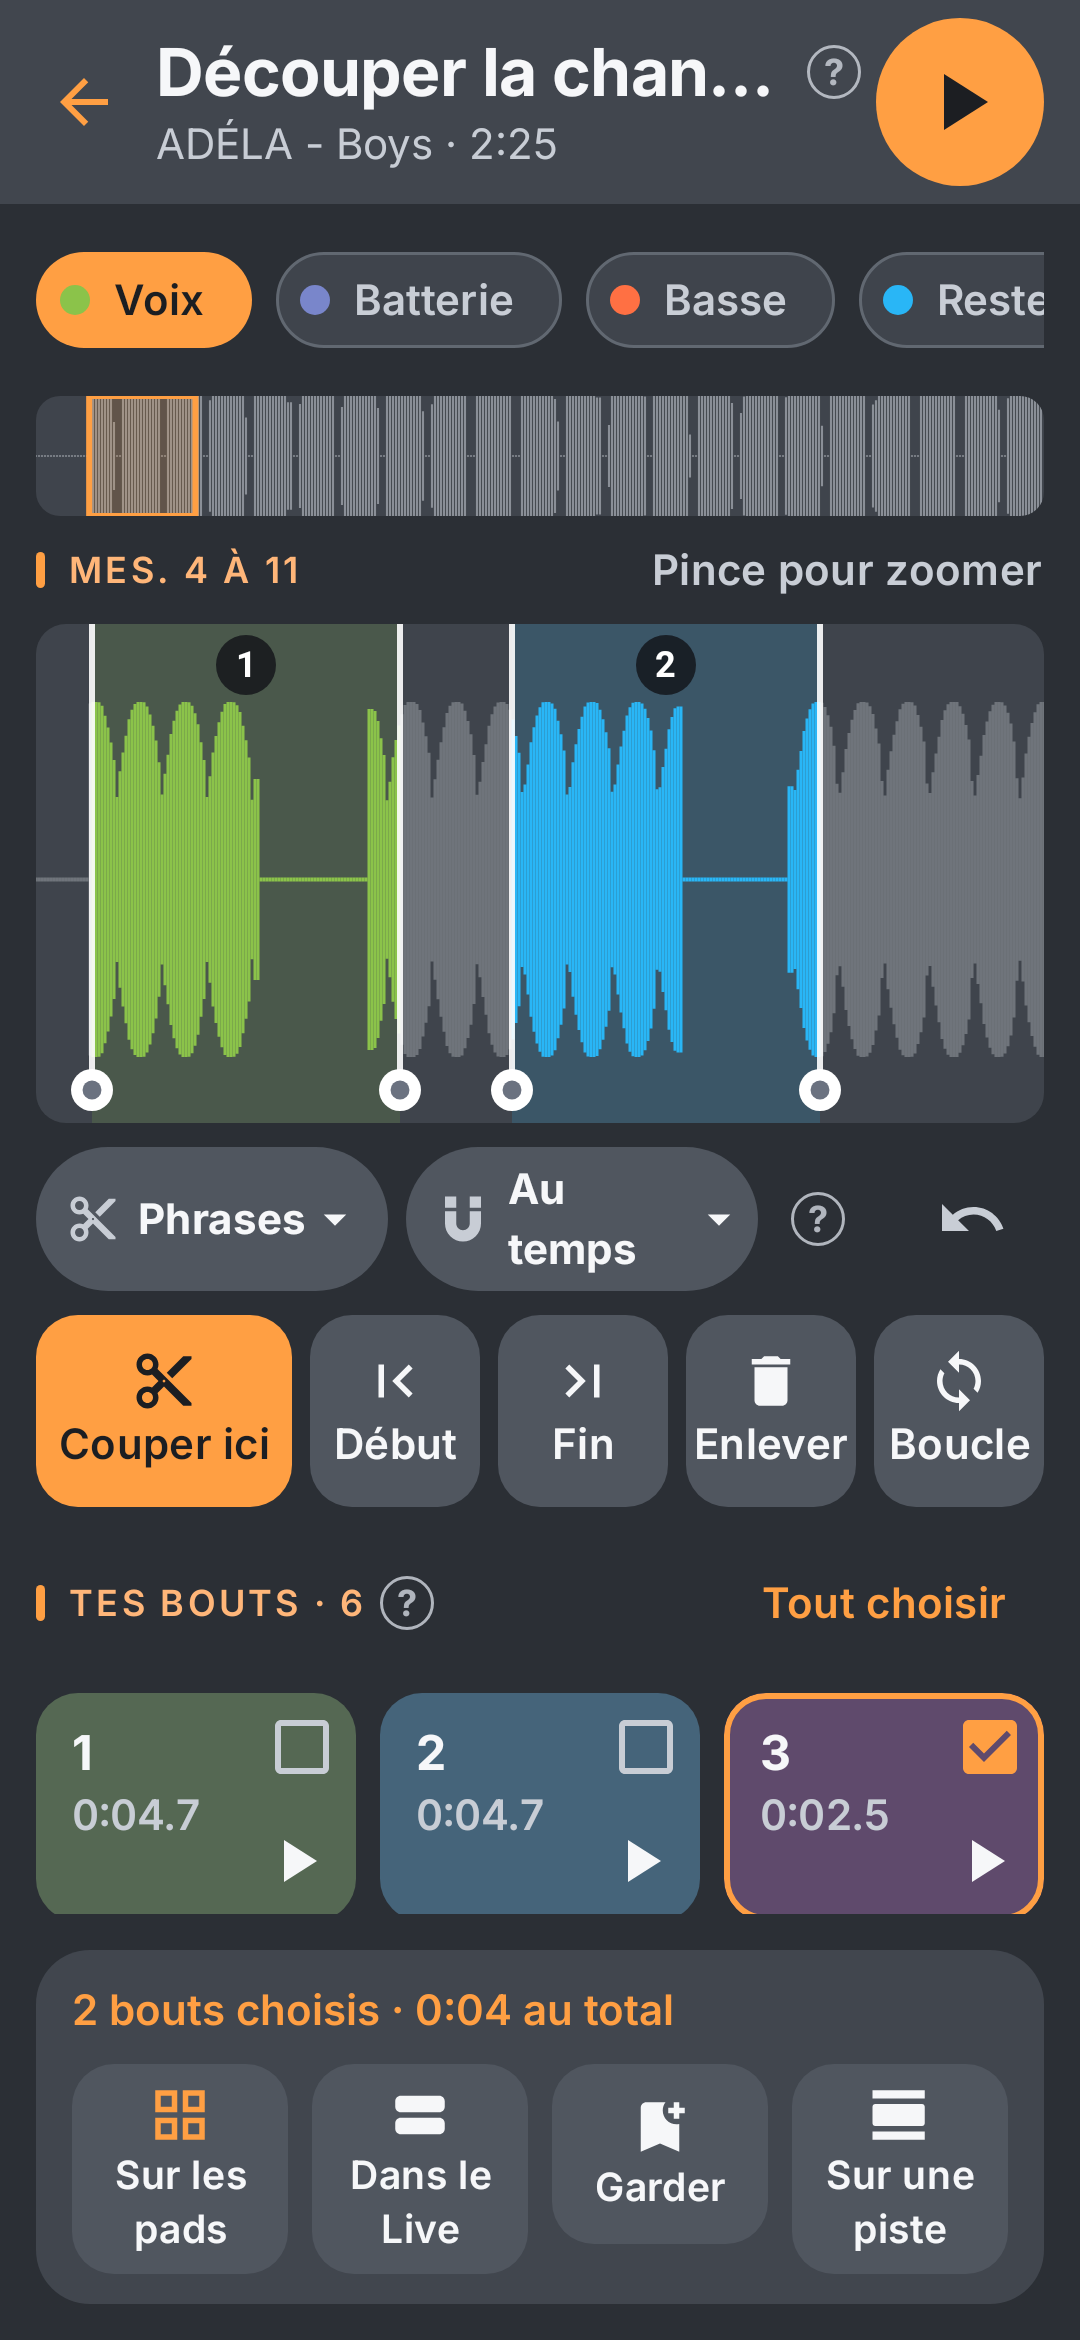
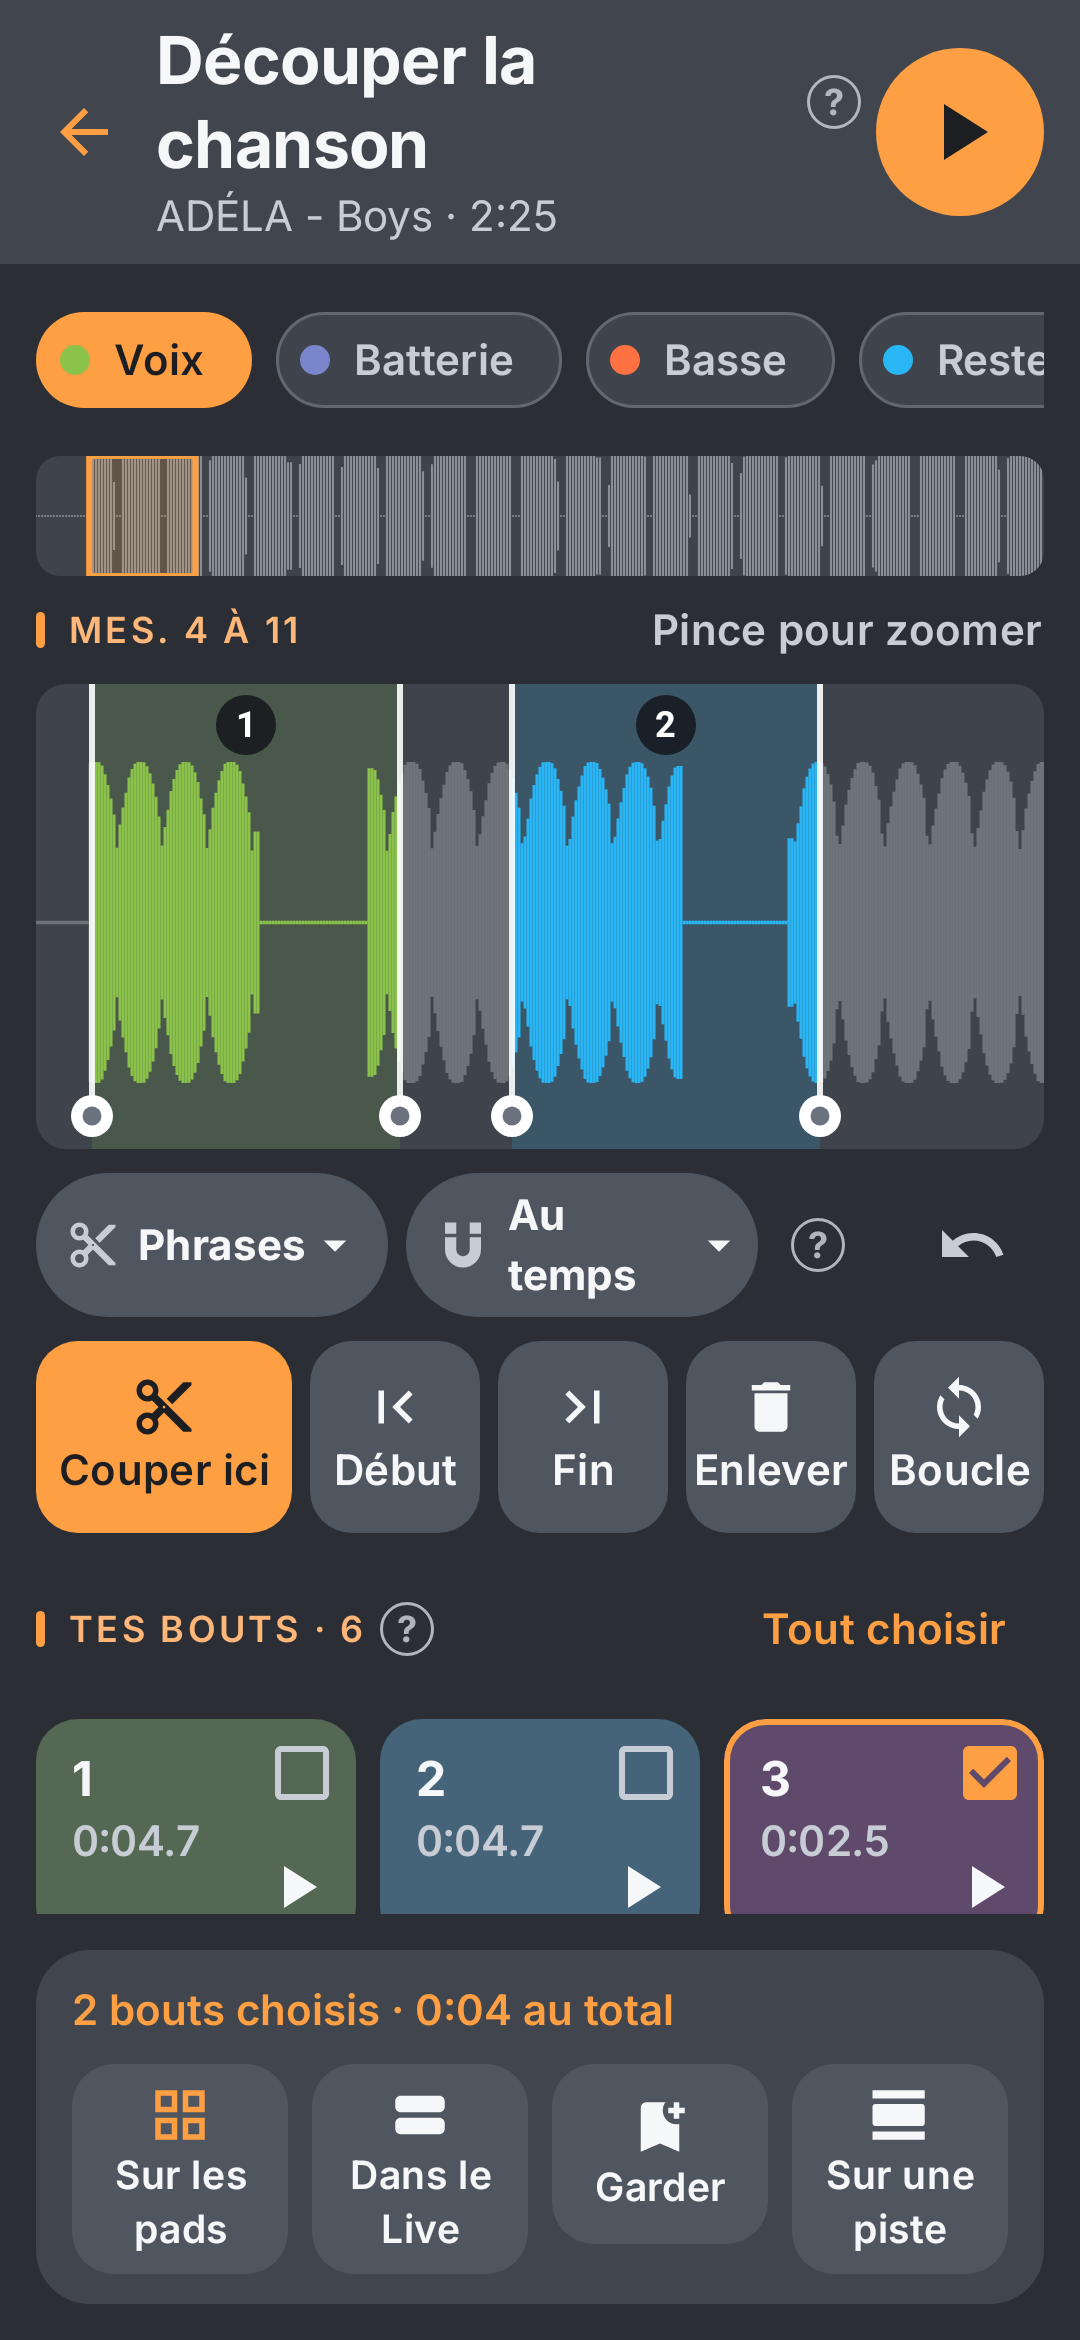
Review of remixdecoupe, G1 and G2: the census accepts the three new screens with their reason; the size-class captures re-recorded after a look; report says N14 is fixed in part and keeps the 700 dp threshold's limit
Claude-Session: https://claude.ai/code/session_014RxrDMvUqqUaLHeXtn2pZS

diff --git a/docs/audits/ultra/tour-6-remixdecoupe-rapport.md b/docs/audits/ultra/tour-6-remixdecoupe-rapport.md
@@ -4,10 +4,10 @@ Source : tri du tour 6 (`docs/audits/ultra/sieges/tour-6/lots-correction.md`, lo
 
 tests: com.pocketstudio.app.remix.CutBoutBigTextTest com.pocketstudio.app.remix.CutScrollSignTest com.pocketstudio.app.remix.RemixThumbWordsTest com.pocketstudio.app.remix.StemBoardRouterTest com.pocketstudio.app.remix.StemBoardVmTest com.pocketstudio.app.session.SongCardEmptyWordsTest com.pocketstudio.app.remix.CutScreenTightTest com.pocketstudio.app.remix.CutJourneyTest com.pocketstudio.app.remix.CutSpanJourneyTest
 
-## Corrigés (5 sur 9)
+## Corrigés (4 sur 9, plus N14 en partie)
 - **R3-EC17, le bloquant** (E c #17, pt-BR, 200 %) : en « Un bout », la courbe ne recevait que la place laissée par la barre d'envoi, dans une colonne qui ne défilait pas : 0 dp à 200 % (430 dp de page), 12 dp à 100 % (480 dp). Sous 700 dp, tout l'écran « Un bout » défile maintenant (puces, courbe à 180 dp, outils, barre d'envoi). Rouge c29ee3f6, vert 5a709f6b.
 - **R6, grave** (G a #14) : « N phrases sur les pads 9 à 14 » dit maintenant où sont ces pads, « (Batterie · 16 pads) », avec les mots déjà traduits de l'onglet de la batterie. Rouge aba3a46c, vert 9a1b65b1 (trois anciennes attentes de message mises à jour).
-- **N14** (C b #19, E c #27, doublon de R6) : « Ton morceau est vide » n'est plus dit quand une partie a de la musique ou que le morceau joue ; la carte dit à la place comment la ligne du temps range les parties (phrases déjà traduites). Rouge 66194614, vert b20e482d.
+- **N14, en partie** (C b #19, E c #27, doublon de R6) : « Ton morceau est vide » n'est plus dit quand une partie a de la musique ou que le morceau joue (cas de C b #19) ; la carte dit à la place comment la ligne du temps range les parties (phrases déjà traduites). Le cas de E c #27 (une piste audio seule, rien ne joue) reste : la carte ne reçoit pas les pistes audio (`SessionScreenUi`, rempli dans AppRoot.kt, hors de ce lot). Rouge 66194614, vert b20e482d.
 - **R3** (B a écran 28) : en mode « Phrases », la colonne qui défile s'estompe en bas tant qu'il reste des outils dessous (le fondu des listes du tour 5). Rouge bfa80380, vert e32e4d49.
 - **R1, sa part dans ces écrans** (E c #5, #17) : le titre « Cortar a música » passe sur deux lignes au lieu de « Cortar a mú… », les mots des boutons d'envoi et de la rangée du pouce ne sont plus coupés (« Guard / ar », « Baixar o modelo (174 »). Rouges 50370fe0 et 628cb6e4, verts c60d404a et f6fecec7.
 
@@ -17,8 +17,10 @@ tests: com.pocketstudio.app.remix.CutBoutBigTextTest com.pocketstudio.app.remix.
 - **U29** (A a, hésitation) : la rangée « Ajouter à la fin » sous 26 parties. Le test essayé ne mesurait pas la page (position rendue à 0 dp) : rien de prouvé, rien changé.
 - **U13** (E c #24, doublon de R3) : probablement couvert par le défilement de R3-EC17 (la barre d'envoi ne prend plus la place des puces), mais aucun test ne le prouve à part.
 
+- **Seuil de 700 dp** (relecture, moyen) : il ne tient pas compte de la taille du texte ; à 100 % entre environ 650 et 700 dp de page, la barre d'envoi passe sous le pli (on la trouve en faisant défiler, le fondu le dit). Laissé : un seuil par mesure du contenu est une autre refonte de l'écran.
+
 ## Captures regardées
-`app/screenshots/remix/cut_bout_short_fr_100.png`, `…_fr_130.png`, `…_ptbr_200.png` (nouvelles) ; `remix_first.png` (bouton du pouce, différence au pixel près), `folded_cards.png` et `scene_drag.png` (la carte du morceau, phrase de N14) réenregistrées après les avoir regardées. Les captures `cut_bout*`, `cut_screen*` existantes n'ont pas bougé. `RemixChantier10Test#eachFixOfTheCutEndIsOneTouch` échoue sous `verifyRoborazzi` parce qu'il compare une image du dossier de construction (`build/chantier10/share_overrun_pro.png`) absente sur cette machine ; il ne touche aucun écran de ce lot (non rejoué avant le lot).
+`app/screenshots/remix/cut_bout_short_fr_100.png`, `…_fr_130.png`, `…_ptbr_200.png` (nouvelles) ; `remix_first.png` (bouton du pouce, différence au pixel près), `folded_cards.png` et `scene_drag.png` (la carte du morceau, phrase de N14) réenregistrées après les avoir regardées. Les captures `cut_bout*`, `cut_screen*` existantes n'ont pas bougé. `sizes/compact_cut_structure.png` (titre sur deux lignes) et `sizes/expanded_cut_structure.png` (fondu du bas sur « Tes bouts » tant que la colonne n'a pas défilé) changent avec ce lot : réenregistrées après les avoir regardées. Le recensement des écrans (`ScreenScanTest`) accepte les trois écrans neufs avec leur raison (`recensement-acceptes.tsv` : mêmes onglets sans « ? » que cutScreenOnePiece ; à 100 %, « Écouter le bout » à demi sous le fondu). `RemixChantier10Test#eachFixOfTheCutEndIsOneTouch` échoue sous `verifyRoborazzi` parce qu'il compare une image du dossier de construction (`build/chantier10/share_overrun_pro.png`) absente sur cette machine ; il ne touche aucun écran de ce lot (non rejoué avant le lot).
 
 chemin: Remix › Découper la chanson › Un bout (petit écran, 100 %) | test: CutBoutBigTextTest#aPieceAtTheUsualTextOnAPhone
 chemin: Remix › Découper la chanson › Un bout (pt-BR, 200 %) | test: CutBoutBigTextTest#aPieceAtTwiceTheTextOnAPhone
